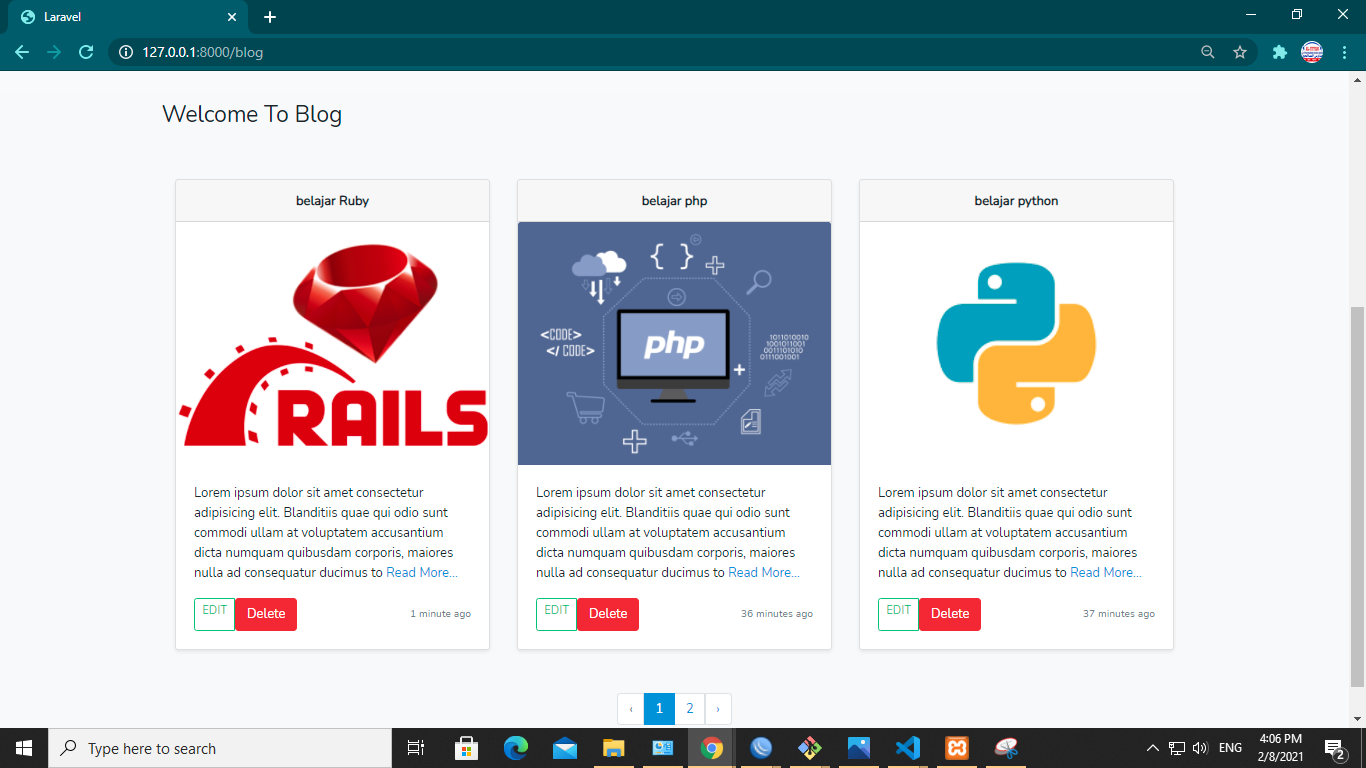
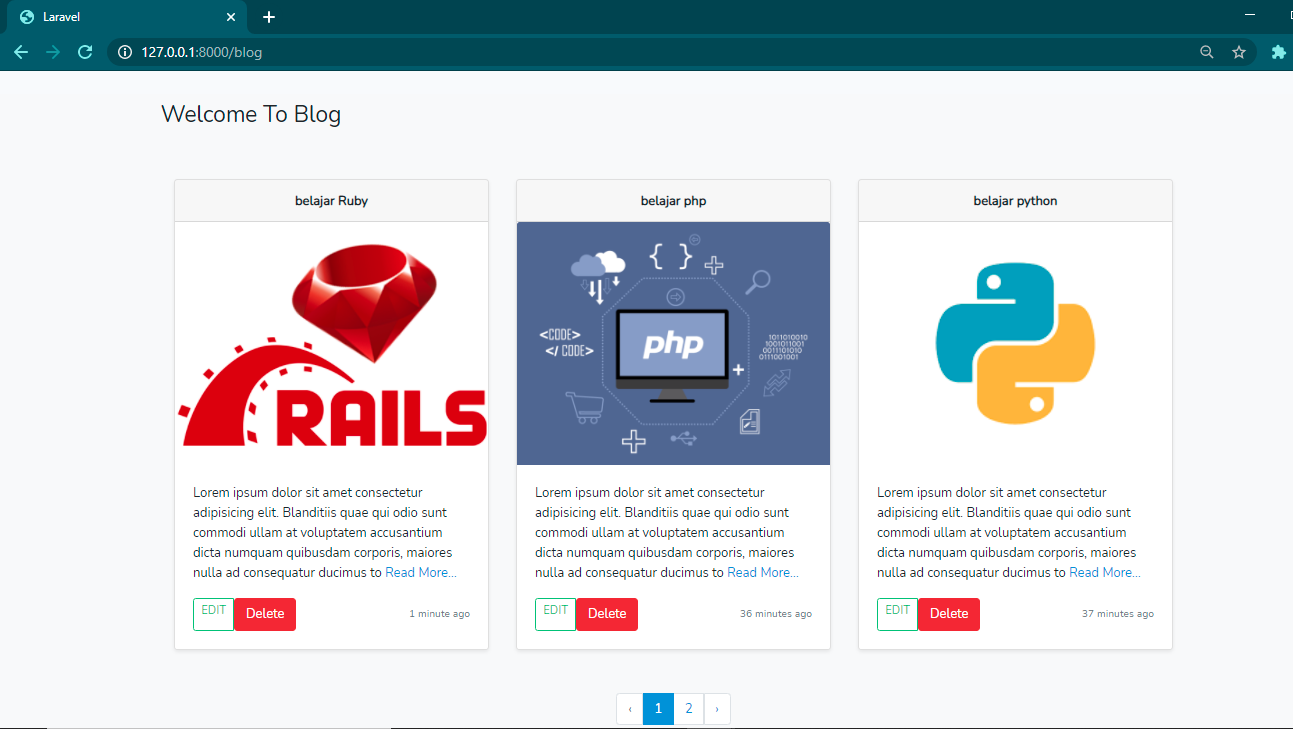
menambahkan file

diff --git a/laravel7crud/README.md b/laravel7crud/README.md
@@ -35,20 +35,20 @@ php artisan storage:link
 
 ## Result
 1. Home
-![Create-Form](https://github.com/rasdi28/Development/blob/master/laravel7crud/public/img/home.png)
+![Create-Form](https://github.com/rasdi28/Development/blob/master/laravel7crud/public/img/home.png = 400x250)
 
 
 2. Registrasi
-![Registrasi](https://github.com/rasdi28/Development/blob/master/laravel7crud/public/img/registrasi.png)
+![Registrasi](https://github.com/rasdi28/Development/blob/master/laravel7crud/public/img/registrasi.png = 400x250)
 
 3. Login
-![login](https://github.com/rasdi28/Development/blob/master/laravel7crud/public/img/login.png)
+![login](https://github.com/rasdi28/Development/blob/master/laravel7crud/public/img/login.png = 400x250)
 
 4. Blog
-![Blog](https://github.com/rasdi28/Development/blob/master/laravel7crud/public/img/blog.png)
+![Blog](https://github.com/rasdi28/Development/blob/master/laravel7crud/public/img/blog.png = 400x250)
 
 5. Create Blog
-![Create](https://github.com/rasdi28/Development/blob/master/laravel7crud/public/img/create.png)
+![Create](https://github.com/rasdi28/Development/blob/master/laravel7crud/public/img/create.png = 400x250)
 
 ## Menghilangkan Registrasi Pada tampilan Laravel
 1. Buka Routes -> web.php
